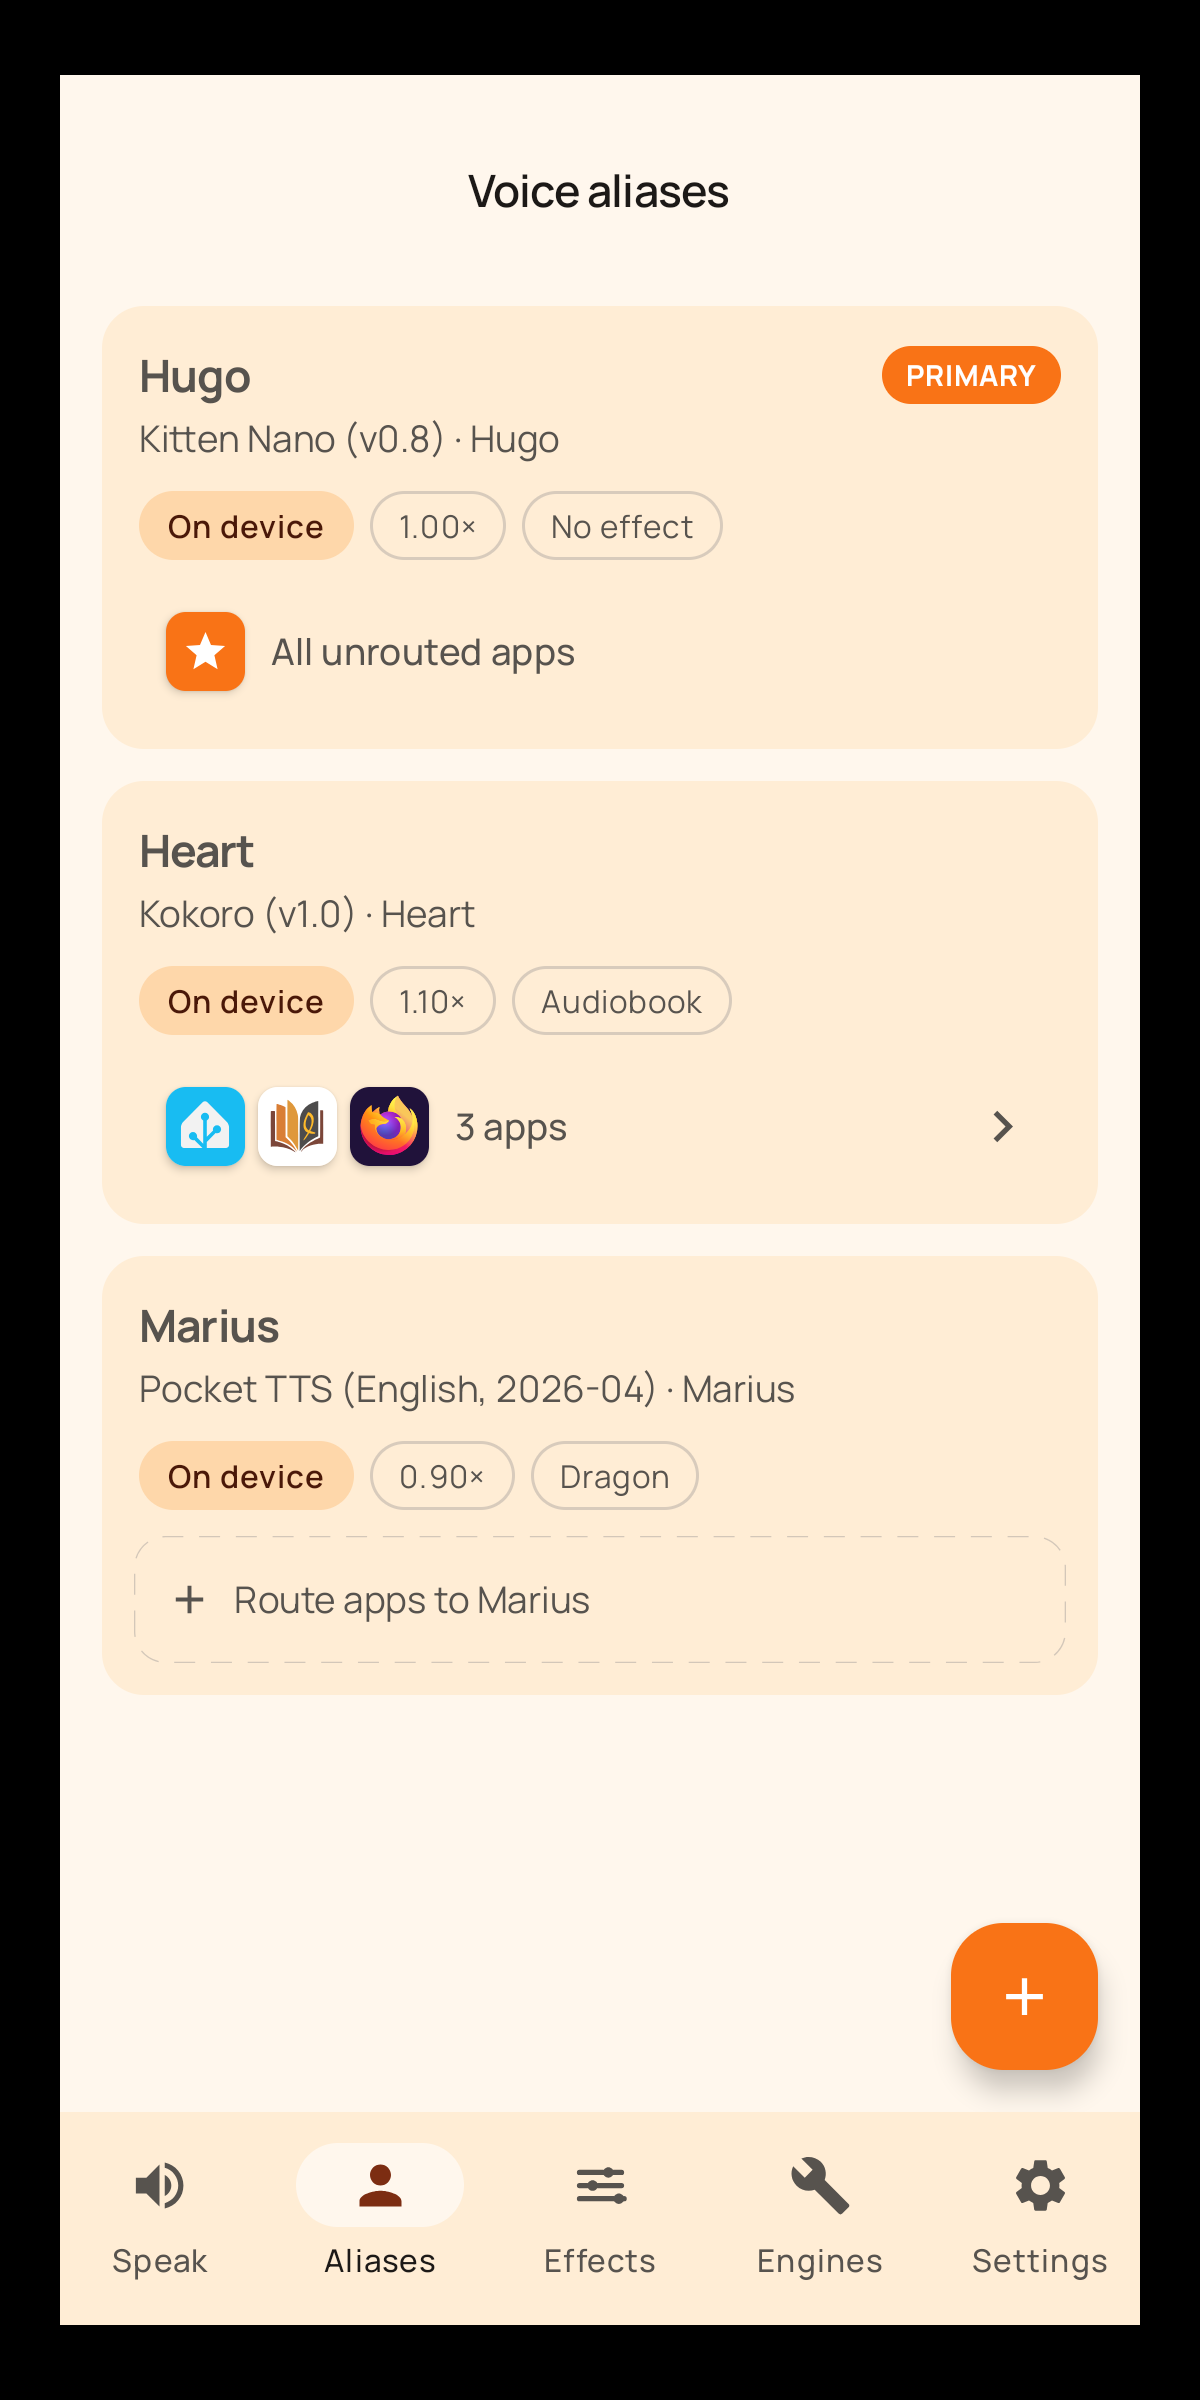
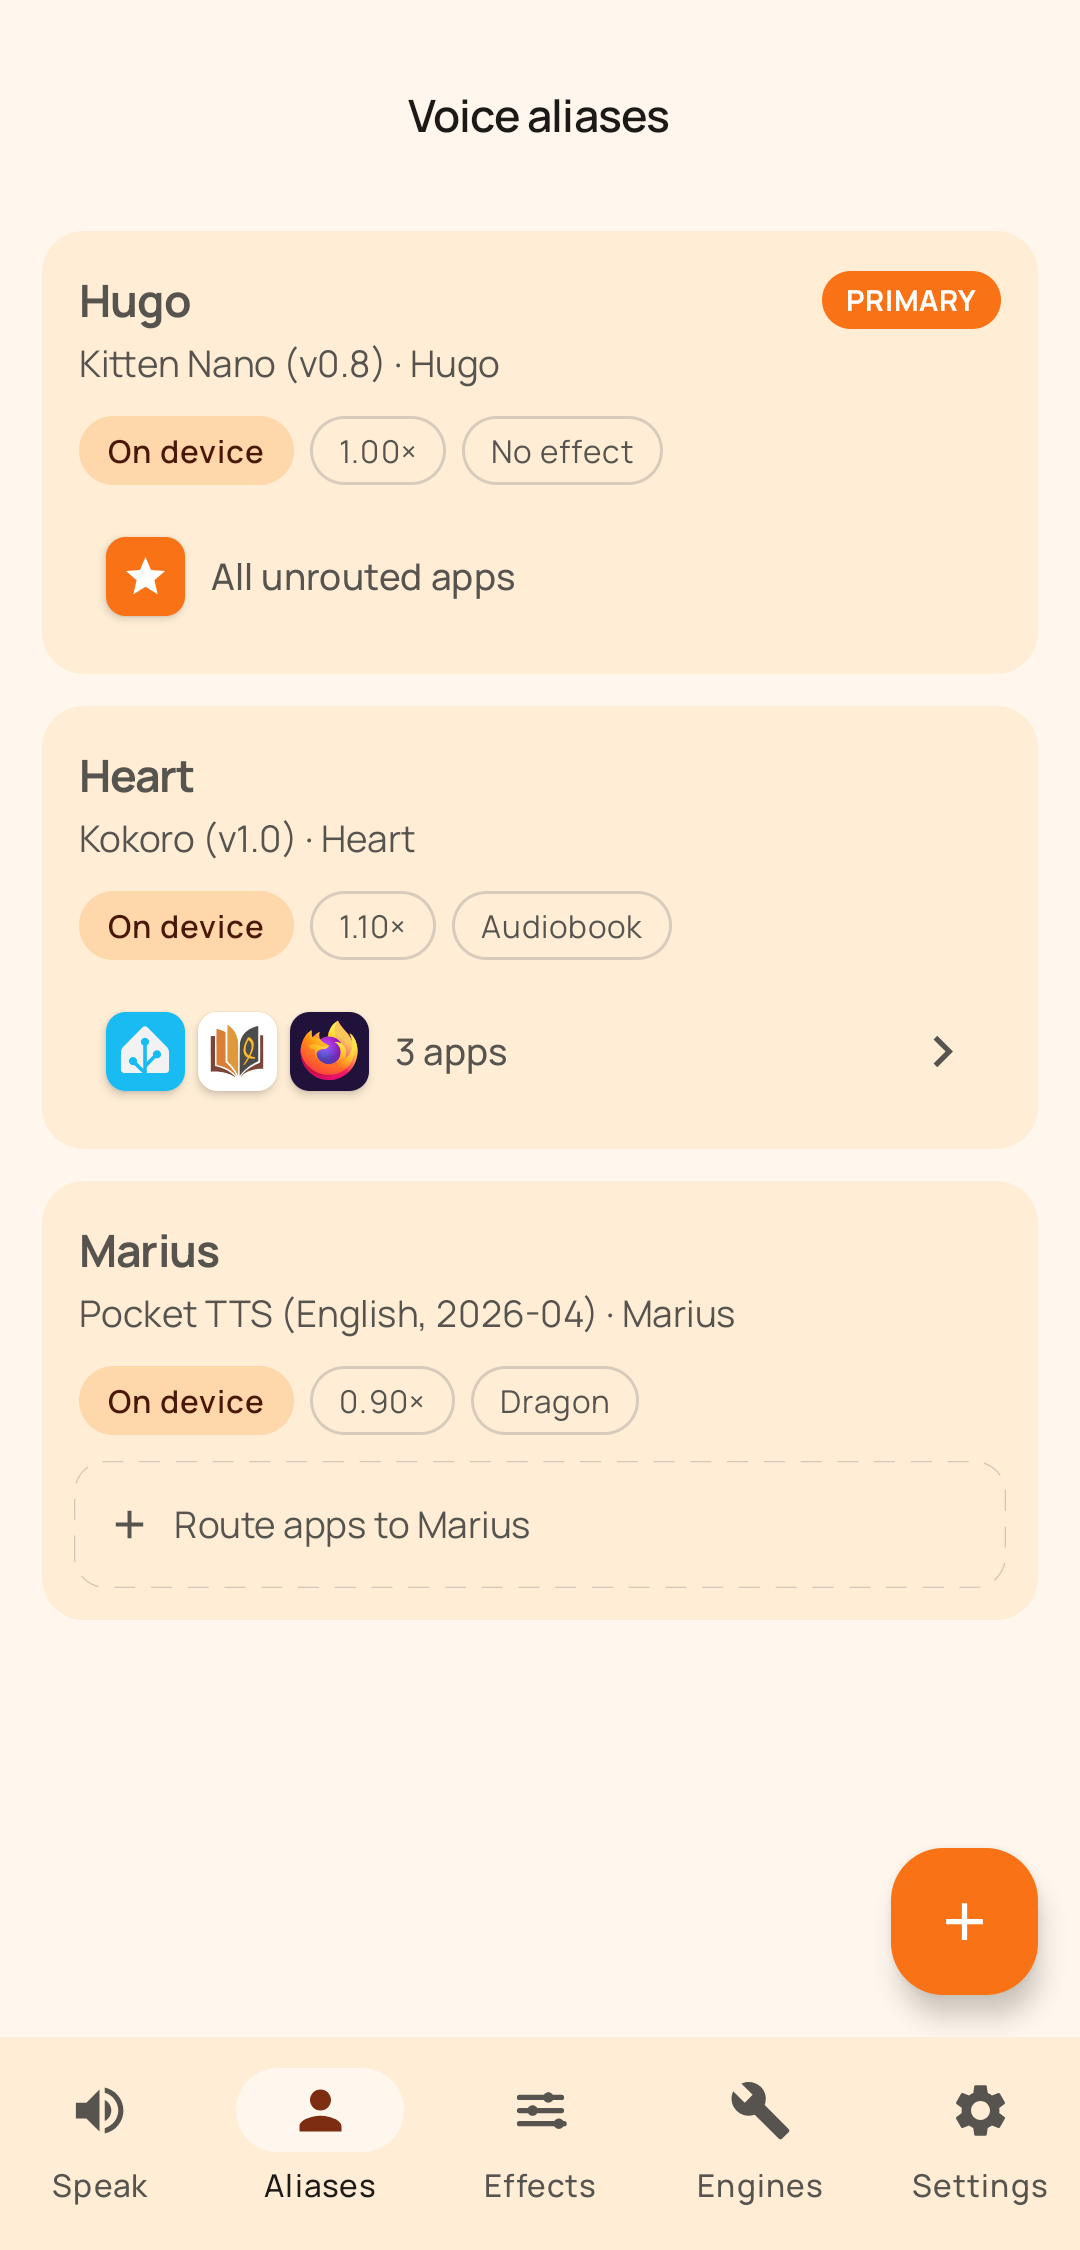
Fix phone frames and F-Droid badge presentation
Screenshots: the fastlane PNGs carry a baked black border (60px sides,
75px top/bottom), so the CSS bezel wrapped a second border with
square-cornered content inside. Crop the site's copies to the real
screen area (1080x2250) so the rounded screen mask clips actual content.
Drop the punch-hole: these captures have no status bar, so it sat on
top of app content.

Badge: the official SVG has transparent padding, so radius + box-shadow
on the <img> drew a card behind it. Show it bare, sized so the black
badge matches the 48px button, negative margins cancelling the padding;
exempt it from the global img max-width that squeezed it.

Changed region(s): [[0.0, 0.0, 1.0, 1.0]]

diff --git a/index.html b/index.html
@@ -131,7 +131,9 @@
   }
   .lede { font-size: 19px; color: var(--ink-dim); margin: 0 0 28px; max-width: 520px; }
   .cta-row { display: flex; flex-wrap: wrap; align-items: center; gap: 14px; }
-  .cta-row .badge img { height: 60px; display: block; border-radius: 10px; box-shadow: var(--shadow); }
+  .cta-row .badge { display: block; line-height: 0; }
+  .cta-row .badge img { height: 72px; width: auto; max-width: none; display: block; margin: -12px; } /* cancels the SVG's own transparent padding */
+  @media (max-width: 420px) { .cta-row { gap: 12px; } .cta-row .badge img { height: 62px; margin: -10px; } .cta-row .btn { padding: 12px 16px; } }
   .btn {
     display: inline-flex; align-items: center; gap: 8px;
     padding: 12px 22px; border-radius: 16px; min-height: 48px;
@@ -139,7 +141,8 @@
     box-shadow: var(--shadow);
   }
   .btn, .cta-row .badge img, .phone, .step, .features li, .card, .support-card { transition: transform .25s ease, box-shadow .25s ease; }
-  .btn:hover, .cta-row .badge:hover img { transform: translateY(-2px); box-shadow: var(--shadow-lg); }
+  .btn:hover { transform: translateY(-2px); box-shadow: var(--shadow-lg); }
+  .cta-row .badge:hover img { transform: translateY(-2px); }
   .btn-default { background: var(--toast-bg); color: var(--toast-ink); }
   .btn-outlined { background: transparent; color: var(--outlined); border: 2px solid var(--outlined); box-shadow: none; }
   .btn svg { width: 20px; height: 20px; stroke: currentColor; fill: none; stroke-width: 2; stroke-linecap: round; stroke-linejoin: round; }
@@ -209,7 +212,6 @@
   .shot { flex: 0 0 auto; scroll-snap-align: start; width: 225px; margin: 0; }
   .phone { background: var(--bezel); border-radius: 36px; padding: 10px; box-shadow: var(--shadow-lg); }
   .screen { position: relative; border-radius: 27px; overflow: hidden; background: var(--bezel); }
-  .screen::before { content: ""; position: absolute; top: 10px; left: 50%; width: 11px; height: 11px; margin-left: -5.5px; border-radius: 50%; background: var(--bezel); box-shadow: inset 0 0 0 2px rgba(255,255,255,0.08); z-index: 1; }
   .shot:nth-child(odd) .phone { transform: rotate(-1.4deg); }
   .shot:nth-child(even) .phone { transform: rotate(1.4deg); }
   .shot .phone:hover { transform: rotate(0) translateY(-6px); }
